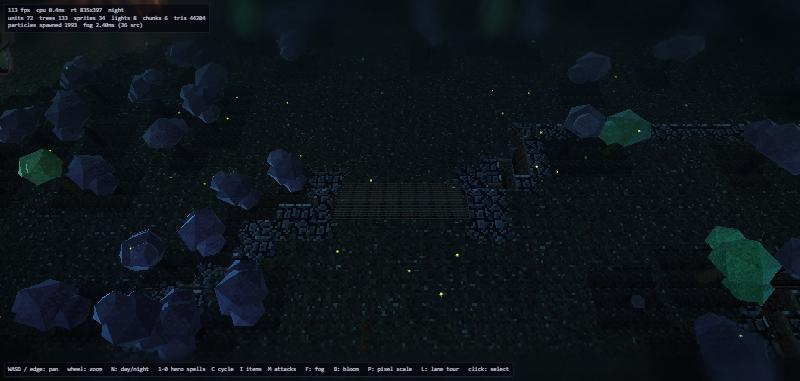
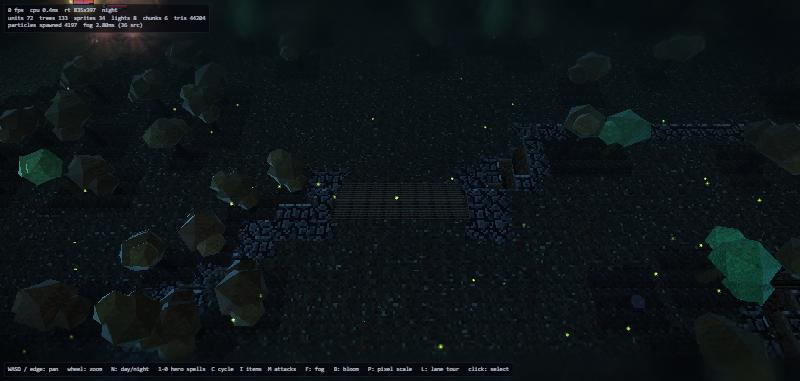
Art v2 leftovers: warm Dire canopies, tamer Sun Strike impact, readable unexplored fog at night

diff --git a/client/src/render/trees3d.js b/client/src/render/trees3d.js
@@ -11,28 +11,28 @@ const g = (c, d, sw, o = {}) => ({ c, d, sw, ...o });
 
 function pineA(k) {
   k.cyl(9, 13, 56, 5, { ...WD, y: -4 });
-  k.cone(96, 150, 6, g(0x27654a, 0x4a2d45, 0.2, { y: 30, ry: 0.3 }));
-  k.cone(76, 132, 6, g(0x2f7650, 0x58334e, 0.4, { y: 108, ry: 0.9 }));
-  k.cone(54, 112, 6, g(0x3a8a5c, 0x663c58, 0.7, { y: 184, ry: 0.1 }));
-  k.cone(32, 92, 6, g(0x4b9f6a, 0x7a4b69, 1, { y: 250, ry: 0.6 }));
+  k.cone(96, 150, 6, g(0x27654a, 0x4a2a20, 0.2, { y: 30, ry: 0.3 }));
+  k.cone(76, 132, 6, g(0x2f7650, 0x5a3224, 0.4, { y: 108, ry: 0.9 }));
+  k.cone(54, 112, 6, g(0x3a8a5c, 0x6c3e28, 0.7, { y: 184, ry: 0.1 }));
+  k.cone(32, 92, 6, g(0x4b9f6a, 0x82502e, 1, { y: 250, ry: 0.6 }));
 }
 function pineB(k) {
   k.cyl(10, 14, 48, 5, { ...WD, y: -4 });
-  k.cone(106, 128, 6, g(0x24604f, 0x45283f, 0.2, { y: 24, ry: 0.5 }));
-  k.cone(80, 118, 6, g(0x2c7358, 0x543049, 0.5, { y: 98, ry: 0.1 }));
-  k.cone(52, 106, 6, g(0x388662, 0x633a55, 0.9, { y: 168, ry: 0.8 }));
+  k.cone(106, 128, 6, g(0x24604f, 0x44261e, 0.2, { y: 24, ry: 0.5 }));
+  k.cone(80, 118, 6, g(0x2c7358, 0x563022, 0.5, { y: 98, ry: 0.1 }));
+  k.cone(52, 106, 6, g(0x388662, 0x683a26, 0.9, { y: 168, ry: 0.8 }));
 }
 function broadA(k) {
   k.cyl(11, 16, 112, 5, { ...WD, y: -4 });
-  k.ico(68, g(0x4b9a55, 0x68405c, 0.7, { y: 160, sy: 0.9 }));
-  k.ico(47, g(0x3f8848, 0x583650, 0.6, { x: -48, y: 138, z: 18 }));
-  k.ico(45, g(0x5cb062, 0x7c5070, 1, { x: 46, y: 150, z: -20 }));
+  k.ico(68, g(0x4b9a55, 0x6a3a24, 0.7, { y: 160, sy: 0.9 }));
+  k.ico(47, g(0x3f8848, 0x58301f, 0.6, { x: -48, y: 138, z: 18 }));
+  k.ico(45, g(0x5cb062, 0x86542e, 1, { x: 46, y: 150, z: -20 }));
 }
 function broadB(k) {
   k.cyl(9, 14, 140, 5, { ...WD, y: -4 });
-  k.ico(64, g(0x70ac4c, 0x62405a, 0.7, { y: 190, sy: 0.9 }));
-  k.ico(43, g(0x5c9a44, 0x7a4c6c, 0.9, { x: 38, y: 158, z: 24 }));
-  k.ico(40, g(0x85bf58, 0x8e5e7e, 1, { x: -34, y: 220, z: -14 }));
+  k.ico(64, g(0x70ac4c, 0x6e4426, 0.7, { y: 190, sy: 0.9 }));
+  k.ico(43, g(0x5c9a44, 0x7e4a2a, 0.9, { x: 38, y: 158, z: 24 }));
+  k.ico(40, g(0x85bf58, 0x9a6432, 1, { x: -34, y: 220, z: -14 }));
 }
 function stump(k) {
   k.cyl(20, 26, 26, 6, { ...WD });

diff --git a/client/src/render/fx/invoker.js b/client/src/render/fx/invoker.js
@@ -216,15 +216,15 @@ export function register(c, R) {
     c.later(dur, () => {
       // the beam: a line of white-hot glow from the sky to the ground, a flash, ring + scorch
       // white-gold core made of 2-4 px squares across the beam width, a faint wide halo behind it
-      for (let i = c.n(420); i > 0; i--) { const a = Math.random() * TAU, w = rad * 0.38 * Math.sqrt(Math.random()); P.spawn(c.pix(pal, { x: x + Math.cos(a) * w, y: y + Math.sin(a) * w, z: z + Math.random() * 1700, life: [0.35, 0.8], px: [1.5, 3], speed: 0, settle: false, keep: true, rampTint: [0.85, 0.85, 0.85] })); }
-      P.burst({ x, y, z, x2: x, y2: y, z2: z + 1700, shape: 'line', count: 90, life: [0.5, 0.9], size0: [rad * 0.8, rad * 1.0], size1: rad * 0.4, col0: pal.mid, col1: pal.low, a0: 0.22, a1: 0, speed: [0, 20], mode: 'glow' });
+      for (let i = c.n(200); i > 0; i--) { const a = Math.random() * TAU, w = rad * 0.38 * Math.sqrt(Math.random()); P.spawn(c.pix(pal, { x: x + Math.cos(a) * w, y: y + Math.sin(a) * w, z: z + Math.random() * 1700, life: [0.35, 0.8], px: [1.5, 3], speed: 0, settle: false, keep: true, rampTint: [0.85, 0.85, 0.85] })); }
+      P.burst({ x, y, z, x2: x, y2: y, z2: z + 1700, shape: 'line', count: 40, life: [0.5, 0.9], size0: [rad * 0.6, rad * 0.8], size1: rad * 0.3, col0: pal.mid, col1: pal.low, a0: 0.1, a1: 0, speed: [0, 20], mode: 'glow' });
       P.burst(c.pix(pal, { x, y, z: z + 6, count: 260, shape: 'ring', radius: rad * 0.7, speed: [80, 300], up: [200, 520], gravity: -620, linger: [0.8, 2.0], px: [1, 2.4] }));
-      c.flash(x, y, z + 80, pal, rad * 0.8, 0.35);
+      c.flash(x, y, z + 80, pal, rad * 0.5, 0.2);
       c.ring(x, y, z, pal, { R: rad * 1.8, life: [0.4, 0.7] });
       c.ring(x, y, z, PAL.fire, { R: rad * 1.1, life: [0.3, 0.5] });
       c.embers(x, y, z + 40, pal, { count: 60, speed: [200, 650] });
       c.smoke(x, y, z + 20, { count: 8 }, PAL.smoke);
-      c.glow(x, y, z + 120, pal.lt, rad * 5, 2.6, 0.8, { elem: 'E' });
+      c.glow(x, y, z + 120, pal.lt, rad * 5, 1.6, 0.8, { elem: 'E' });
       c.decal(x, y, 'decal_scorch', rad / 80, 6, { tint: [1.2, 0.8, 0.35], emit: 0.8, fadeOut: 0.6 });
     });
   });

diff --git a/client/src/render/shaderlib.js b/client/src/render/shaderlib.js
@@ -21,7 +21,7 @@ export function createSharedUniforms() {
     uLevels: { value: LIGHT_LEVELS },
     uFog: { value: fogTex },
     uFogMap: { value: new THREE.Vector4(-8832, 8832, 17664, 0) },           // x0, y1, size (world), enabled
-    uFogLv: { value: new THREE.Vector3(0.12, 0.5, 1) },                     // unexplored, explored brightness
+    uFogLv: { value: new THREE.Vector3(0.34, 0.6, 1) },                    // unexplored, explored brightness (v2: never pure black)
     uCamRight: { value: new THREE.Vector3(1, 0, 0) },
     uCamUp: { value: new THREE.Vector3(0, 1, 0) },
     uCamPos: { value: new THREE.Vector3() },

diff --git a/docs/PROGRESS.md b/docs/PROGRESS.md
@@ -26,7 +26,7 @@
 - Bot-only matches are slow (~45-50 min); bots push buildings timidly
 - Invoker bot levels slowly
 - Art v2 awaiting creative-director verdict (docs/ART-DIRECTION.md; shots docs/shots/v2-final-*.jpg)
-- Art v2 leftovers: Sun Strike impact blows out white; ramp/stair tiles still old striped art; no directional beam cones; water bokeh is glints not discs; Dire broadleaf canopies read as flat blue blobs at night (v2-final-dire-night.jpg); unexplored fog at night is near-black (v2-final-forest-night-fog.jpg)
+- Art v2 leftovers: ramp/stair tiles still old striped art; no directional beam cones; water bokeh is glints not discs
 - Fog of war quite dark
 - Lobby footer below the fold on short screens
 - Scoreboard overlap at HUD scale 2
